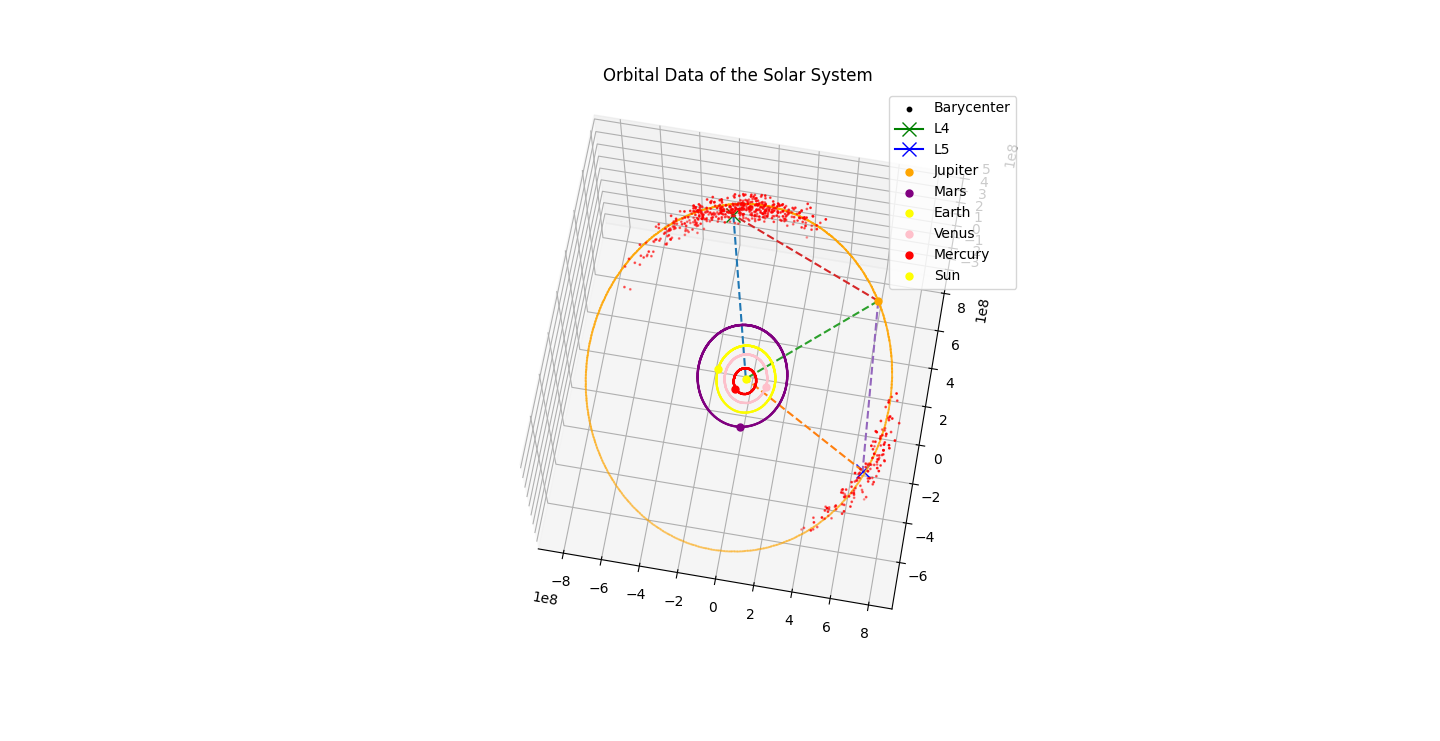
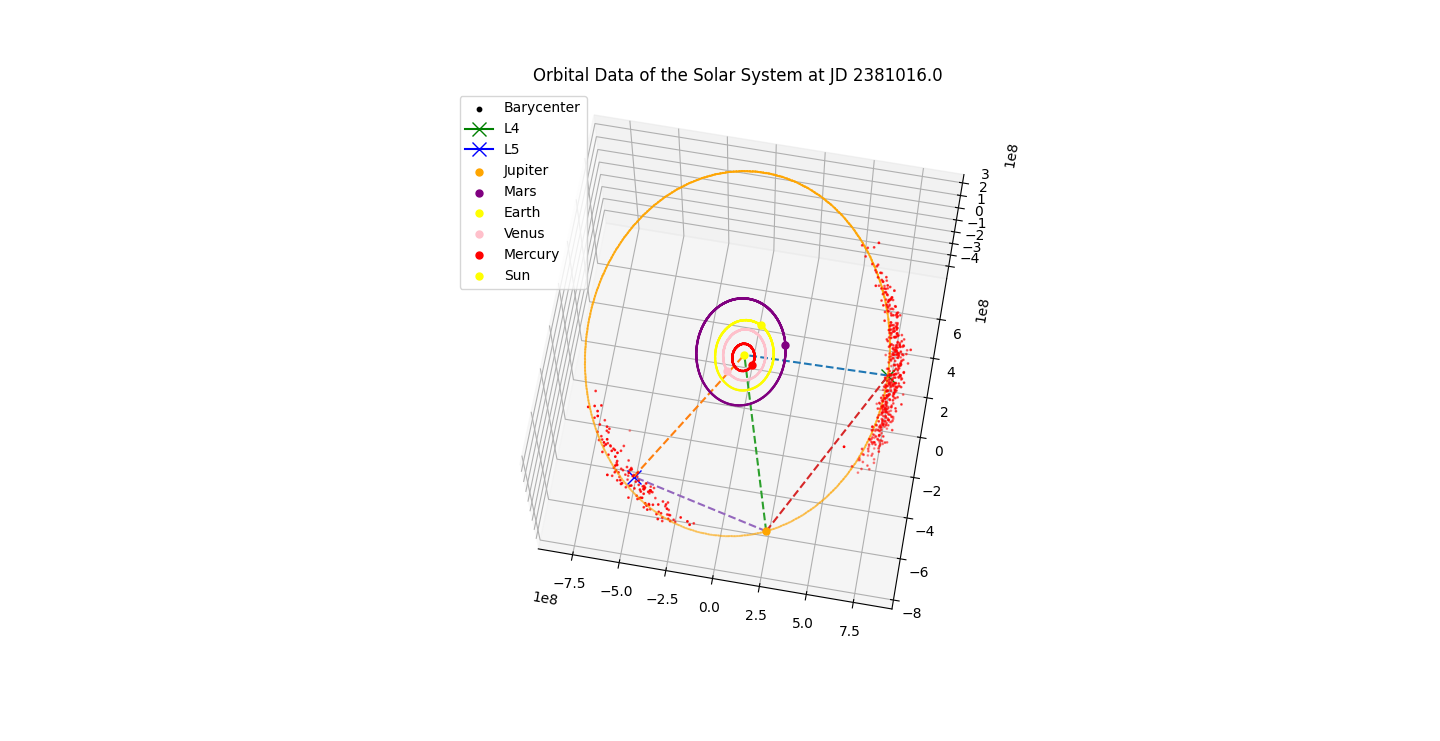
commit

diff --git a/Individual_Trojan_Data.py b/Individual_Trojan_Data.py
@@ -22,7 +22,7 @@ JD = 0
 xj = []
 yj = []
 zj = []
-t = 12  # Time to show all the objects
+t = 48  # Time to show all the objects
 # JDTDB time to de determined by JDTDB = 2378496.5 + 60t
 
 with open('Planetary_Orbital_Data/Jupiter_position_data.txt', newline='') as empherides:
